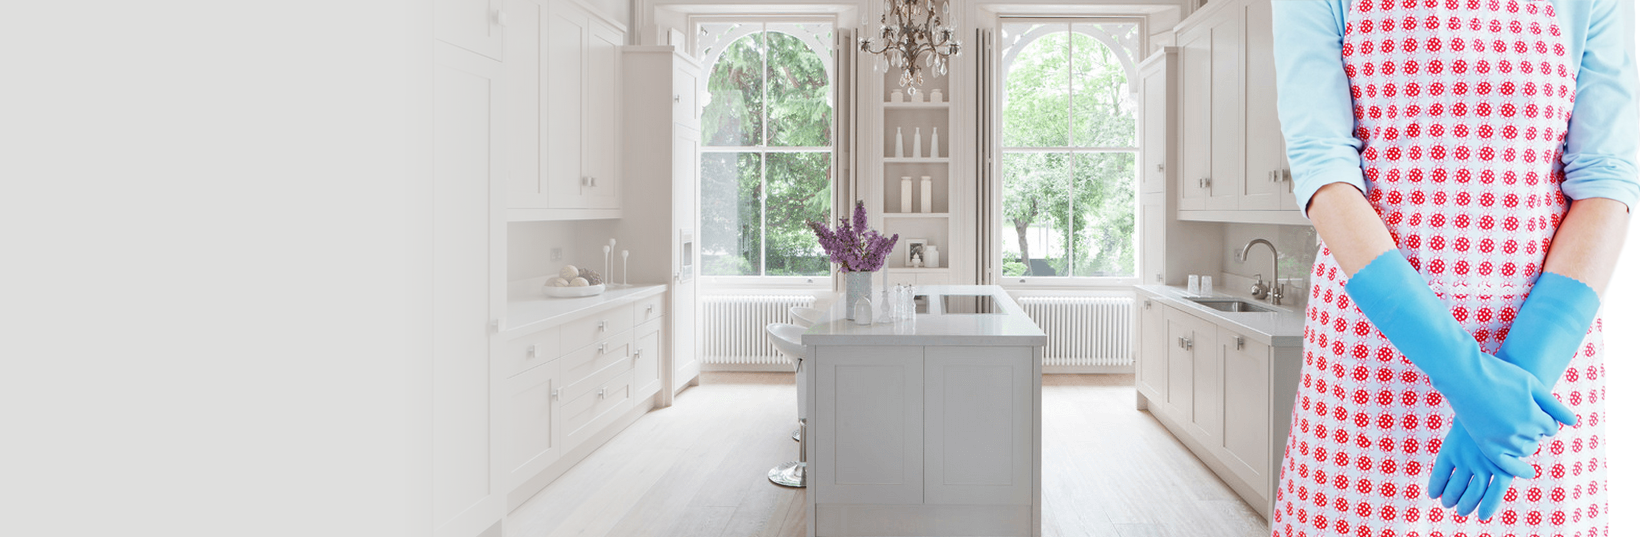
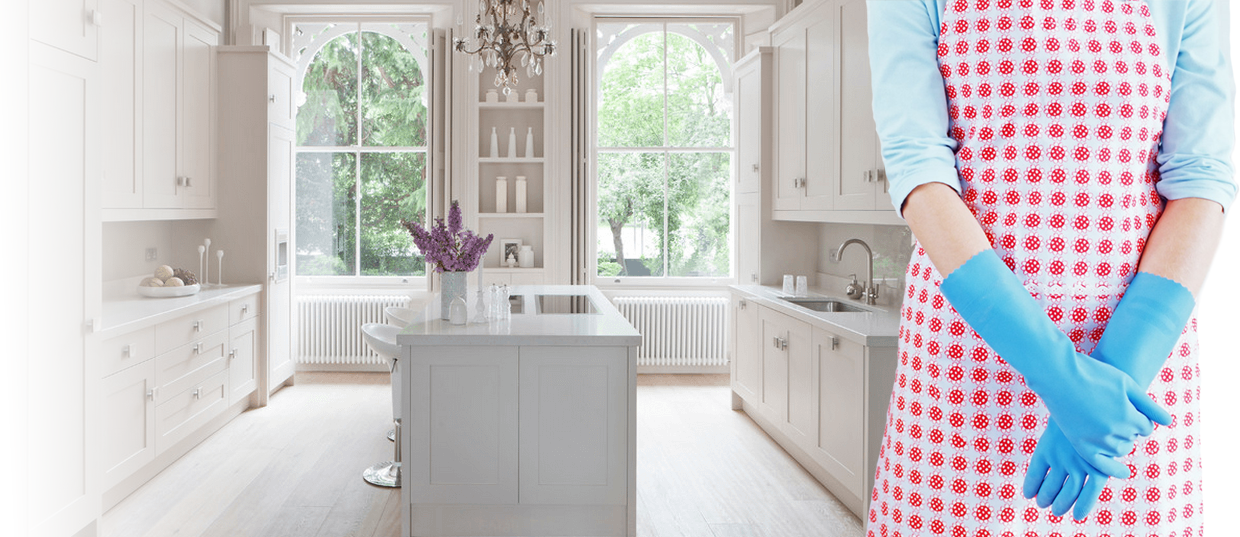
* better landing cover

diff --git a/royalshine/app/styles/main.scss b/royalshine/app/styles/main.scss
@@ -41,6 +41,7 @@ $icon-font-path: '../fonts/';
 
 /* Main marketing message and sign up button */
 .jumbotron {
+  background: none;
   text-align: center;
   border-bottom: 1px solid #e5e5e5;
   .btn {
@@ -74,26 +75,51 @@ $icon-font-path: '../fonts/';
   }
 }
 
+@mixin sec-width {
+    height: 360px;
+}
+
 .royal-shine {
     & .landing-section {
-        background-color: $main-color-2;
+        background-color: $main-color-6;
+        color: #fff;
+        text-shadow: 1px 1px 2px #797979;
         & .container {
             padding-top: 20px;
             background-image: url('/images/landing.png');
             background-repeat: no-repeat;
-            height: 239px;
+            height: 316px;
             background-size: contain;
+            & .logo {
+                background: url('/images/logo.png') no-repeat;
+                background-size: contain;
+                height: 68px;
+                width: 125px;
+            }
+            & .jumbotron {
+                padding: 97px 381px 0 0;
+            }            
         }        
     }
 
     & .rules-section {
-        background-color: $main-color-4;
+        background-color: $main-color-5;
+        @include sec-width;
+        & .container {
+        & .test {
+            width: 70px;
+            height: 70px;
+            background-color: #fff;
+            }
+        }
     }
     & .services-section {
         background-color: $main-color-3;
+        @include sec-width;
     }
     & .why-section {
        background-color: $main-color-5;
+       @include sec-width;
     }
     & .customers-section {
        background-color: $main-color-2;

diff --git a/royalshine/app/index.html b/royalshine/app/index.html
@@ -28,20 +28,21 @@
     <![endif]-->
     <div class="container-fluid landing-section">
         <div class="container">
-            <div class="header">
-                <ul class="nav nav-pills pull-right">
-                    <li class="active"><a href="#">Home</a></li>
-                    <li><a href="#">About</a></li>
-                    <li><a href="#">Contact</a></li>
-                </ul>
-                <h3 class="text-muted">royalshine</h3>
+            <div class="logo">
+            </div>
+             <div class="jumbotron">
+                <h2>Your Cleaning Services</h2>      
+                <p>Let your place shine</p>  
             </div>
         </div>
     </div>
     <div class="container-fluid rules-section">
         <div class="container">
             <div class="jumbotron">
+                <h1>My first Bootstrap website!</h1>      
+                <p>This page will grow as we add more and more components from Bootstrap...</p>  
             </div>
+            <div class="test">Boook</div>
         </div>
     </div>
     <div class="container-fluid services-section">

diff --git a/royalshine/app/styles/config.scss b/royalshine/app/styles/config.scss
@@ -3,3 +3,4 @@ $main-color-2: #E0E0E0;
 $main-color-3: #C0B8C7;
 $main-color-4: #435EA3;
 $main-color-5: #3DAB86;
+$main-color-6: #FFF;
